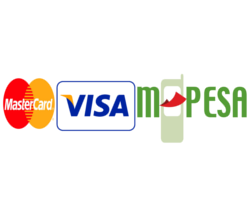
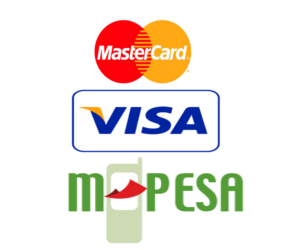
added the payment images

diff --git a/soko/settings.py b/soko/settings.py
@@ -44,7 +44,7 @@ class DevConfig(Config):
     if hostname == "paul-pro":
         SQLALCHEMY_DATABASE_URI = 'postgresql://paul@localhost/soko_mkononi'
     else:
-        SQLALCHEMY_DATABASE_URI = 'postgresql://postgres:tarcom123@10.16.0.231/soko_mkononi'  # TODO: Change me
+        SQLALCHEMY_DATABASE_URI = 'postgresql://postgres:tracom123@10.16.0.231/soko_mkononi'  # TODO: Change me
         
     DEBUG_TB_ENABLED = True
     ASSETS_DEBUG = True  # Don't bundle/minify static assets
